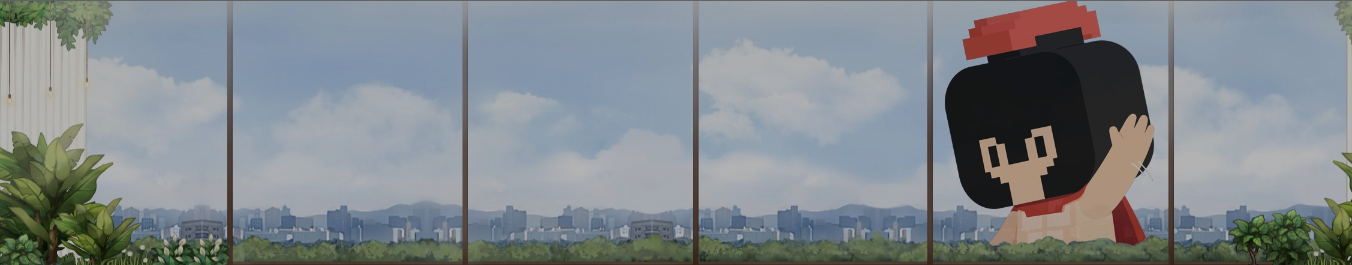
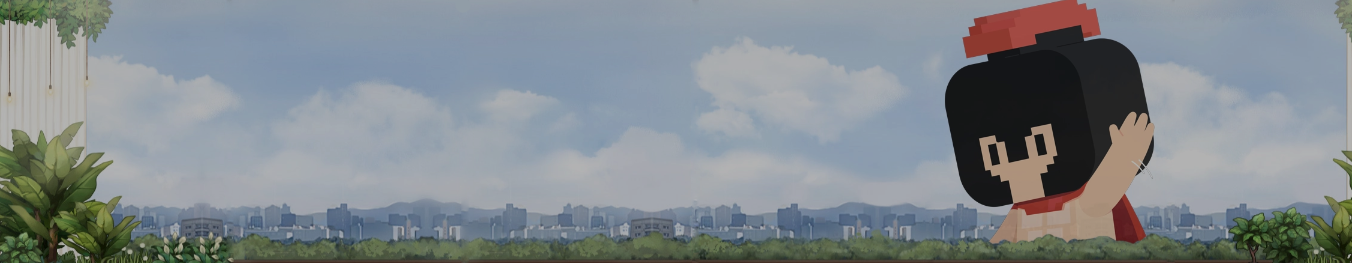
팀소개페이지 이미수정 및 폰트사이즈 조정

diff --git a/styles/member_page.css b/styles/member_page.css
@@ -8,17 +8,22 @@
     padding-top: 80px;
 }
 
+.mem_title {
+    margin-bottom: 50px;
+}
+
 .title > p {    
     font-family: "Orbit", sans-serif;
     font-weight: bold; 
     color: #333;
     font-size: 40pt;
     text-align: center;
+    margin-bottom: 0;
 }
 
 .content {
     display: grid;
-    grid-template-columns: repeat(3, 1fr);
+    grid-template-columns: repeat(3, 1fr);    
     gap: 20px;
     display: flex;
     justify-content: center;
@@ -31,8 +36,8 @@
     width: 270px;
     height: 330px;
     text-align: center;
-    cursor: pointer;
-    margin: 10px 5px 20px 5px;
+    cursor: pointer;    
+    margin: 0px 5px 20px 5px;
     box-shadow: 0 4px 8px rgba(0, 0, 0, 0.2);
 }
 
@@ -48,10 +53,15 @@
     filter: brightness(80%);
 }
 
-.card_text {
+.card-body {
+    margin-top: 10px;
+}
+.card-text {
     font-family: "Orbit", sans-serif;
+    font-size: 2em;
     font-weight: bold; 
     color: #333;
     font-size: 25pt;
     line-height: 22px; 
+    
 }

diff --git a/styles/team_page.css b/styles/team_page.css
@@ -5,11 +5,11 @@
   height: 100vh;
 }
 .jumbotron {  
-  background-image: url("../assets/images/image.png");  
-  filter: brightness(130%);
-  background-size: 90%;
+  background: url("../assets/images/image.png") no-repeat center / cover ;
+  filter: brightness(150%);
+  
   width: 100%;
-  height: 300px;
+  height: 400px;
   display: flex;
   align-items: center;
 }
@@ -21,14 +21,18 @@
   text-align: center;
 }
 
+h3 {
+  margin: 0;
+}
 .title {
-  font-size: 50px;
+  font-size: 10em;
   font-weight: 900;
+  margin: 0;
 }
 
 .jb_content {
   font-weight: 800;
-  font-size: 0.5em;
+  font-size: 2.4em;
   color: #000;
   margin: 0;
 }
@@ -39,9 +43,10 @@
 
 .team_inner {
   width: 1320px;
-  height: calc(100vh - 300px);
+  height: calc(100vh -400px);
 
-  margin: -70px auto 0;
+  margin: 0 auto;
+  padding-top: 50px;
 
   text-align: center;
 

diff --git a/index.html b/index.html
@@ -54,7 +54,9 @@
 
     <!-- main_visual -->
     <section class="main_visual" id="main_page">
-        <h2>visual_title</h2>
+        <div class="main_overlay">
+            <h2>ELM팀 소개 페이지입니다</h2>
+        </div>
         <!-- 비쥬얼사진이라는 것을 알려주는 text 추가 후 text-indent:-9999em -->
         <!-- main_visual이 심심해 보인다면?? 메타버스 단체사진을 여러장 촬영 후 롤링(슬라이드) 추가 가능 -->
     </section>
@@ -102,7 +104,7 @@
 
     <!-- section_03_Member_info -->
     <section class="member_info">
-        <div class="title">
+        <div class="mem_title">
             <p>
                 우리 팀원을 소개합니다!
                 <!-- <span>emoji_img</span> -->

diff --git a/styles/main_page.css b/styles/main_page.css
@@ -80,9 +80,11 @@ li {
 .main_visual {
   width: 100%;
   height: 100vh;
-  background: url(../assets/images/main.png) no-repeat center / cover;
+  background: url(../assets/images/main.png)no-repeat center / cover;  
 }
 
-.main_visual {
-  text-indent: -9999em;
+.main_overlay {
+  width: 100%;
+  height: 100%;
+  /* background-color : rgb(0,0,0,0.1); */
 }
